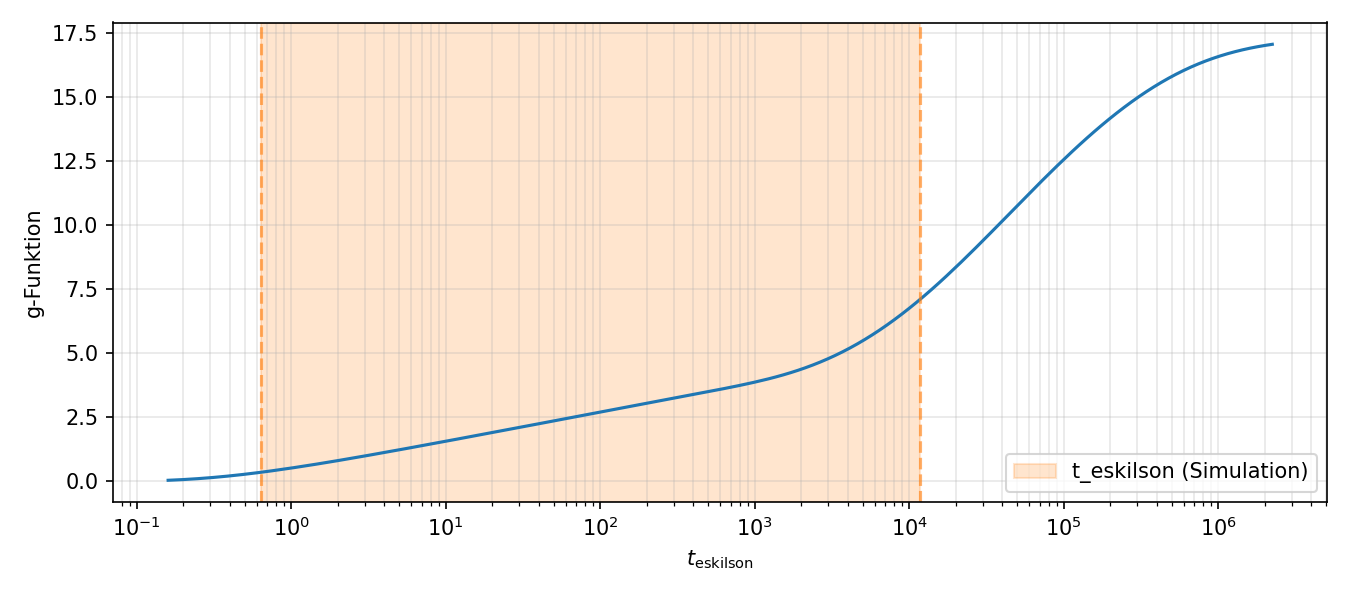
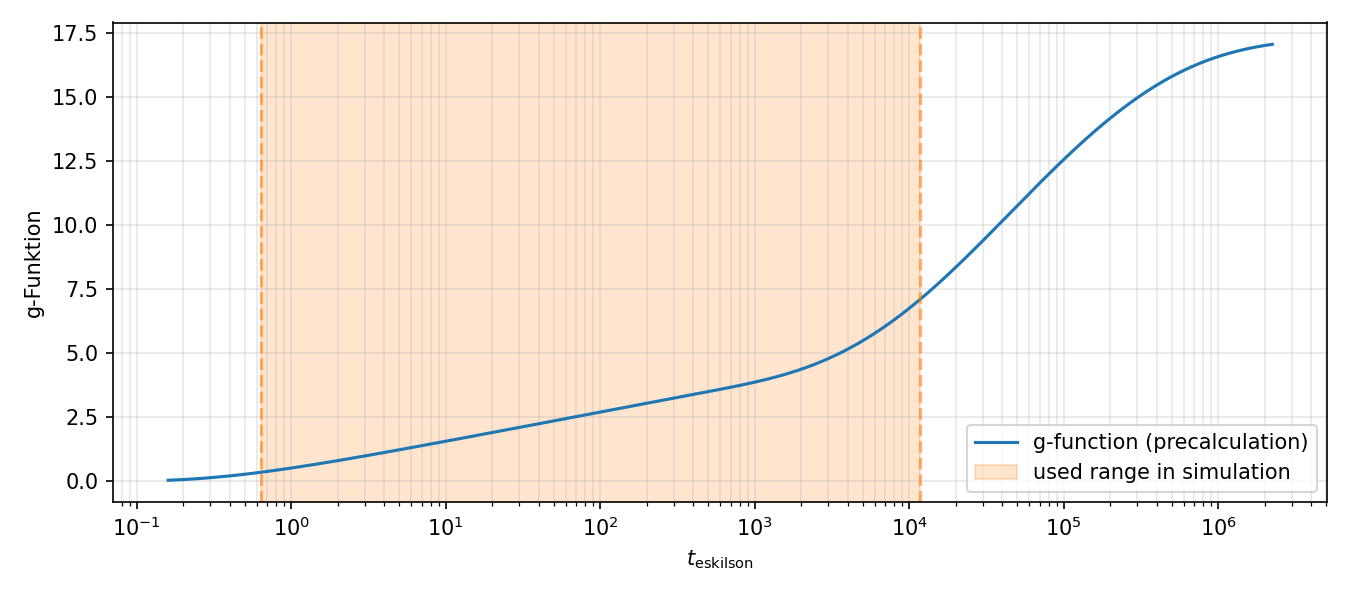
update g-function plot

Changed region(s): [[0.7156, 0.69, 0.9956, 0.84]]

diff --git a/shared_utils.py b/shared_utils.py
@@ -236,7 +236,7 @@ def plot_borefield_cross_section(
 
 def plot_g_function(*, t_eskilson_grid, g_func, t_eskilson_req, out_path: Path):
     fig_g, ax_g = plt.subplots(1, 1, figsize=(9, 4))
-    ax_g.plot(t_eskilson_grid, g_func, color="tab:blue")
+    ax_g.plot(t_eskilson_grid, g_func, color="tab:blue", label="g-function (precalculation)")
     ax_g.set_xscale("log")
     ax_g.set_xlabel(r"$t_{\mathrm{eskilson}}$")
     ax_g.set_ylabel("g-Funktion")
@@ -244,7 +244,7 @@ def plot_g_function(*, t_eskilson_grid, g_func, t_eskilson_req, out_path: Path):
 
     t_req_min = np.nanmin(t_eskilson_req)
     t_req_max = np.nanmax(t_eskilson_req)
-    ax_g.axvspan(t_req_min, t_req_max, color="tab:orange", alpha=0.2, label="t_eskilson (Simulation)")
+    ax_g.axvspan(t_req_min, t_req_max, color="tab:orange", alpha=0.2, label="used range in simulation")
     ax_g.axvline(t_req_min, color="tab:orange", alpha=0.6, linestyle="--")
     ax_g.axvline(t_req_max, color="tab:orange", alpha=0.6, linestyle="--")
     ax_g.legend()
